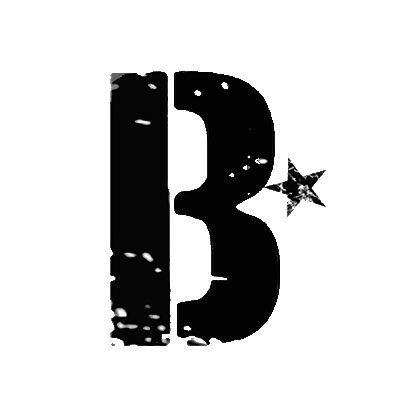
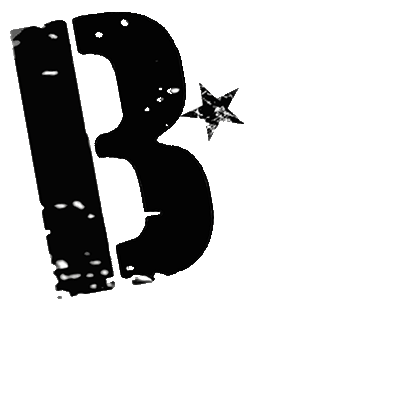
slider ok

diff --git a/css/main.css b/css/main.css
@@ -174,8 +174,9 @@ body {
   position: relative;
   top: -2vh;
   right: 2px;
-  left: 2px;
-  height: 75vh;}
+  left: 0px;
+  height: 75vh;
+  overflow: hidden;}
 
   /* Slider styles */
 
@@ -186,11 +187,11 @@ body {
   .item-3 {
   	position: absolute;
     display: block;
-  	top: 2em;
+  	top: 0em;
 
-    width: 60%;
+    width: 64%;
 
-    font-size: 10em;
+    font-size: 5em;
     text-align: center;
 
   	animation-duration: 20s;
@@ -211,8 +212,8 @@ body {
   }
 
   @keyframes anim-1 {
-  	0%, 8.3% { left: -100%; opacity: 0; }
-    8.3%,25% { left: 25%; opacity: 1; }
+  /*0%, 8.3% { left: -100%; opacity: 0; }*/
+    0%,25% { left: 25%; opacity: 1; }
     33.33%, 100% { left: 110%; opacity: 0; }
   }
 

diff --git a/index.html b/index.html
@@ -24,9 +24,9 @@
 	</nav>
 	<div class="container">
 		<div class="slider">
-			<p class="item-1">dfadsadfasdfd dfadfadsf<img src="../imgs/isotipe-slider.png"></p>
+			<p class="item-1"><img src="./imgs/isotipe-slider.png"></p>
 			<p class="item-2">Organic <br> Juices + Smoothies</p>
-			<p class="item-3">You take the red pill - you stay in Wonderland and I show you how deep the rabbit-hole goes.</p>
+			<p class="item-3">Born and blended in <br>  SOUTH EAST LONDON</p>
 		</div>
 		<div class="sign-up">
 		<div id="myNav" class="overlay">
